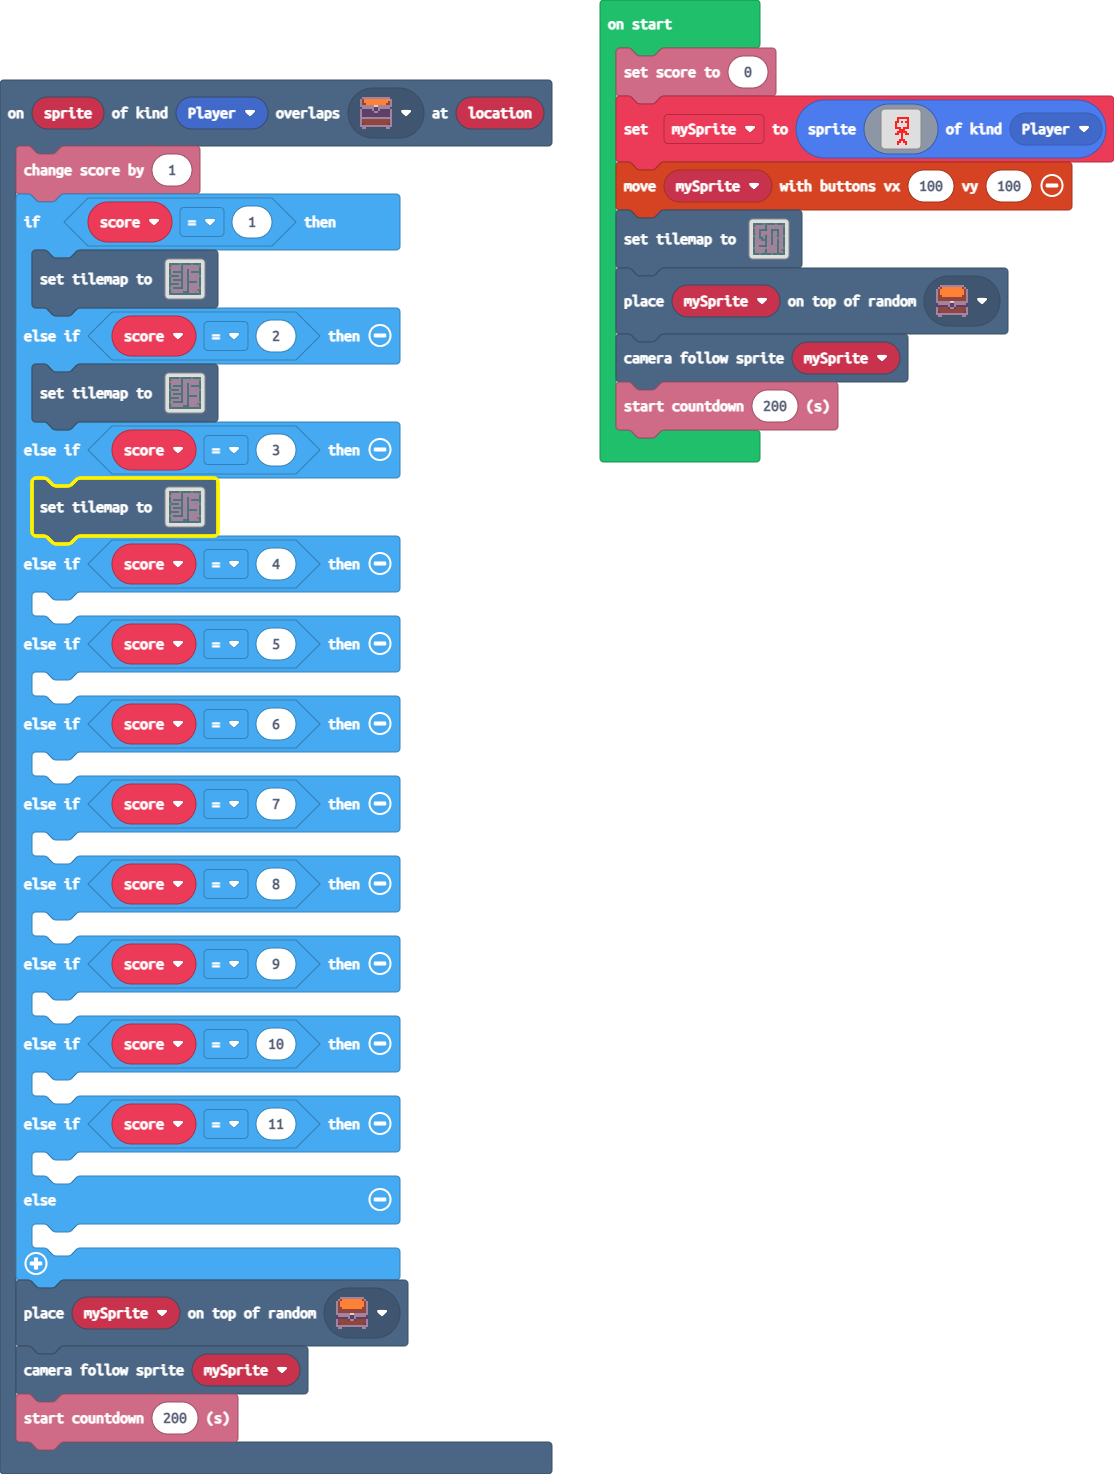
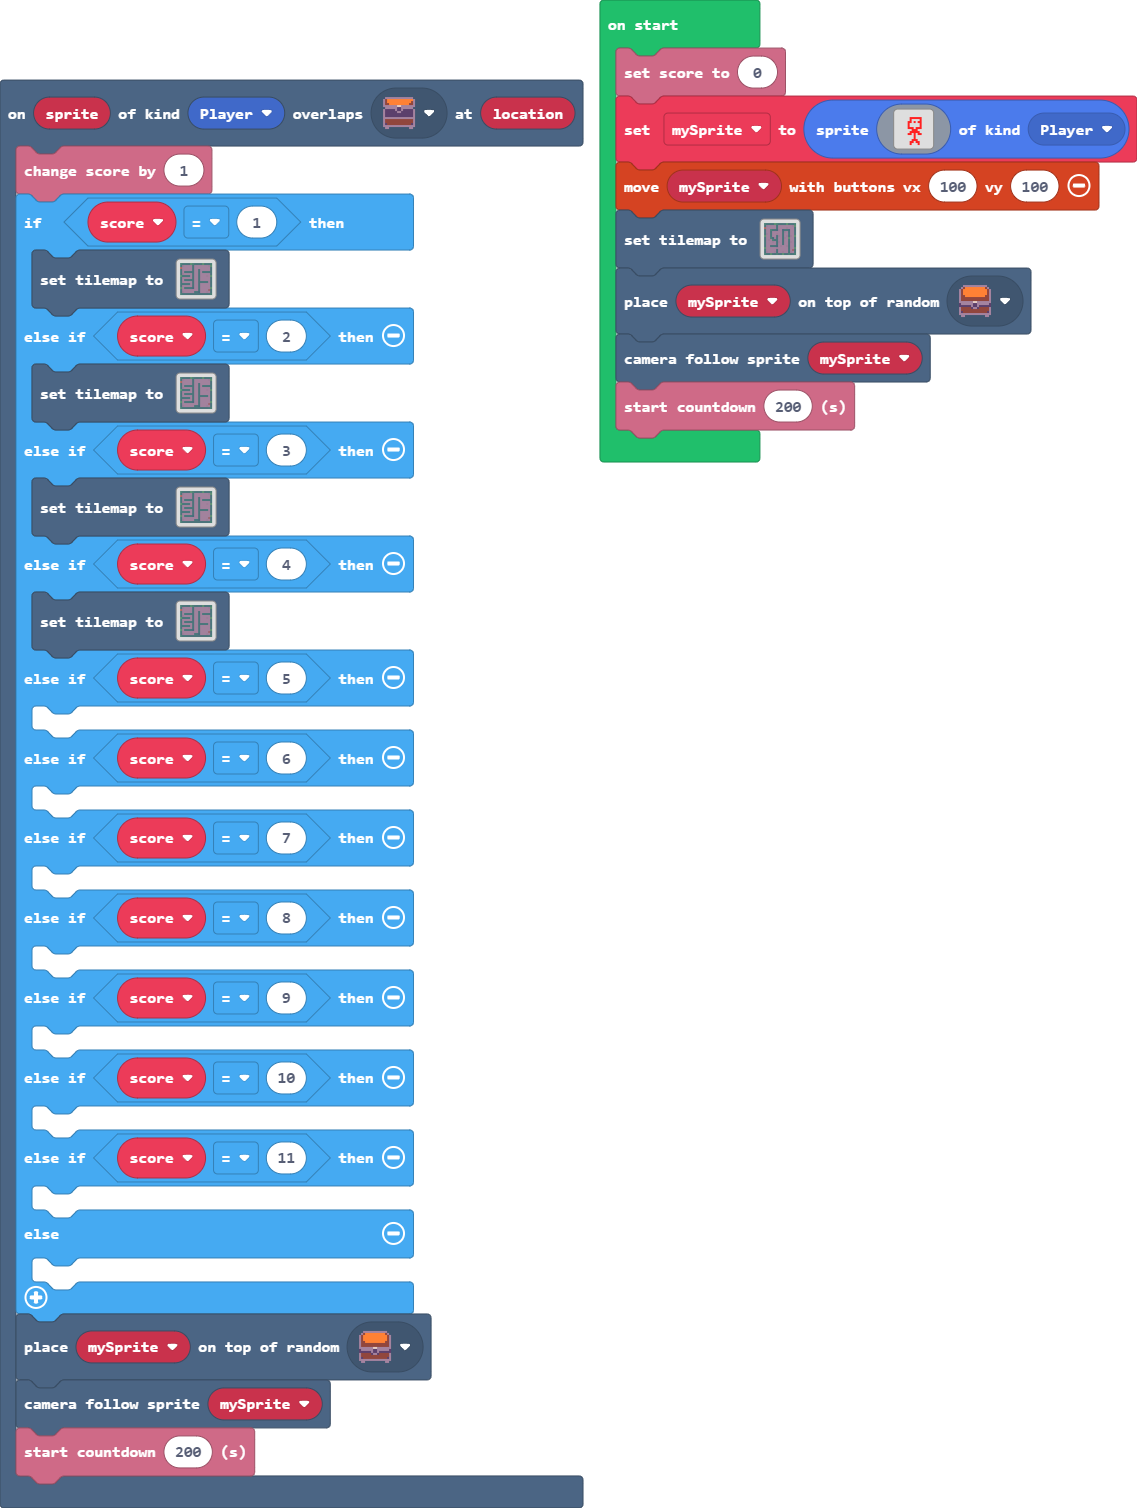
Update main.blocks, main.ts, tilemap.g.jres, tilemap.g.ts

Changed region(s): [[0.0, 0.0, 1.0, 0.9986], [0.4883, 0.9674, 0.5189, 1.0]]

diff --git a/tilemap.g.ts b/tilemap.g.ts
@@ -43,25 +43,6 @@ namespace myTiles {
 2 . . . . . 2 . . . . . 2 . . 2 
 2 2 2 2 2 2 2 2 2 2 2 2 2 2 2 2 
 `, [myTiles.transparency16,sprites.dungeon.greenOuterNorthWest,sprites.dungeon.greenOuterNorth0,sprites.dungeon.greenOuterNorthEast,sprites.dungeon.greenOuterEast0,sprites.dungeon.greenOuterSouthWest,sprites.dungeon.greenOuterSouth0,sprites.dungeon.greenOuterSouth1,sprites.dungeon.greenOuterSouthEast,sprites.dungeon.greenOuterWest1,sprites.dungeon.greenOuterWest0,sprites.dungeon.floorDark2,sprites.dungeon.greenOuterNorth1,sprites.dungeon.greenOuterEast1,sprites.dungeon.floorDark5,sprites.dungeon.greenInnerNorthEast,sprites.dungeon.greenOuterWest2,sprites.dungeon.greenOuterEast2,sprites.dungeon.greenOuterNorth2,sprites.dungeon.greenOuterSouth2,sprites.dungeon.greenInnerNorthWest,sprites.dungeon.greenInnerSouthEast,myTiles.transparency16,sprites.dungeon.chestClosed,sprites.dungeon.chestOpen], TileScale.Sixteen);
-            case "level_4":
[1 lines of base64/hex data omitted]
-. . . . . . . . . . . . . . . . 
-. . . . . . . . . . . . . . . . 
-. . . . . . . . . . . . . . . . 
-. . . . . . . . . . . . . . . . 
-. . . . . . . . . . . . . . . . 
-. . . . . . . . . . . . . . . . 
-. . . . . . . . . . . . . . . . 
-. . . . . . . . . . . . . . . . 
-. . . . . . . . . . . . . . . . 
-. . . . . . . . . . . . . . . . 
-. . . . . . . . . . . . . . . . 
-. . . . . . . . . . . . . . . . 
-. . . . . . . . . . . . . . . . 
-. . . . . . . . . . . . . . . . 
-. . . . . . . . . . . . . . . . 
-. . . . . . . . . . . . . . . . 
-`, [myTiles.transparency16,sprites.dungeon.greenOuterNorthWest,sprites.dungeon.greenOuterNorth0,sprites.dungeon.greenOuterNorthEast,sprites.dungeon.greenOuterEast0,sprites.dungeon.greenOuterSouthWest,sprites.dungeon.greenOuterSouth0,sprites.dungeon.greenOuterSouth1,sprites.dungeon.greenOuterSouthEast,sprites.dungeon.greenOuterWest1,sprites.dungeon.greenOuterWest0,sprites.dungeon.floorDark2,sprites.dungeon.greenOuterNorth1,sprites.dungeon.greenOuterEast1,sprites.dungeon.floorDark5,sprites.dungeon.greenOuterWest2,sprites.dungeon.stairWest,sprites.dungeon.greenOuterEast2,sprites.dungeon.greenOuterNorth2,sprites.dungeon.stairLadder], TileScale.Sixteen);
             case "level_3":
[1 lines of base64/hex data omitted]
 . . . . . . . . . . . . . . . . 
@@ -102,6 +83,44 @@ namespace myTiles {
 `, [myTiles.transparency16], TileScale.Sixteen);
             case "level3":
             case "level3":return tiles.createTilemap(hex`1000100000000000000000000000000000000000000000000000000000000000000000000000000000000000000000000000000000000000000000000000000000000000000000000000000000000000000000000000000000000000000000000000000000000000000000000000000000000000000000000000000000000000000000000000000000000000000000000000000000000000000000000000000000000000000000000000000000000000000000000000000000000000000000000000000000000000000000000000000000000000000000000000000000000000000000000000000000000000000000000000000000000000000000000000000000000000`, img`
+. . . . . . . . . . . . . . . . 
+. . . . . . . . . . . . . . . . 
+. . . . . . . . . . . . . . . . 
+. . . . . . . . . . . . . . . . 
+. . . . . . . . . . . . . . . . 
+. . . . . . . . . . . . . . . . 
+. . . . . . . . . . . . . . . . 
+. . . . . . . . . . . . . . . . 
+. . . . . . . . . . . . . . . . 
+. . . . . . . . . . . . . . . . 
+. . . . . . . . . . . . . . . . 
+. . . . . . . . . . . . . . . . 
+. . . . . . . . . . . . . . . . 
+. . . . . . . . . . . . . . . . 
+. . . . . . . . . . . . . . . . 
+. . . . . . . . . . . . . . . . 
+`, [myTiles.transparency16], TileScale.Sixteen);
+            case "level_4":
[1 lines of base64/hex data omitted]
+. . . . . . . . . . . . . . . . 
+. . . . . . . . . . . . . . . . 
+. . . . . . . . . . . . . . . . 
+. . . . . . . . . . . . . . . . 
+. . . . . . . . . . . . . . . . 
+. . . . . . . . . . . . . . . . 
+. . . . . . . . . . . . . . . . 
+. . . . . . . . . . . . . . . . 
+. . . . . . . . . . . . . . . . 
+. . . . . . . . . . . . . . . . 
+. . . . . . . . . . . . . . . . 
+. . . . . . . . . . . . . . . . 
+. . . . . . . . . . . . . . . . 
+. . . . . . . . . . . . . . . . 
+. . . . . . . . . . . . . . . . 
+. . . . . . . . . . . . . . . . 
+`, [myTiles.transparency16,sprites.dungeon.greenOuterNorthWest,sprites.dungeon.greenOuterNorth0,sprites.dungeon.greenOuterNorthEast,sprites.dungeon.greenOuterEast0,sprites.dungeon.greenOuterSouthWest,sprites.dungeon.greenOuterSouth0,sprites.dungeon.greenOuterSouth1,sprites.dungeon.greenOuterSouthEast,sprites.dungeon.greenOuterWest1,sprites.dungeon.greenOuterWest0,sprites.dungeon.floorDark2,sprites.dungeon.greenOuterNorth1,sprites.dungeon.greenOuterEast1,sprites.dungeon.floorDark5,sprites.dungeon.greenOuterWest2,sprites.dungeon.stairWest,sprites.dungeon.greenOuterEast2,sprites.dungeon.greenOuterNorth2,sprites.dungeon.stairLadder], TileScale.Sixteen);
+            case "level4":
+            case "level4":return tiles.createTilemap(hex`1000100000000000000000000000000000000000000000000000000000000000000000000000000000000000000000000000000000000000000000000000000000000000000000000000000000000000000000000000000000000000000000000000000000000000000000000000000000000000000000000000000000000000000000000000000000000000000000000000000000000000000000000000000000000000000000000000000000000000000000000000000000000000000000000000000000000000000000000000000000000000000000000000000000000000000000000000000000000000000000000000000000000000000000000000000000000000`, img`
 . . . . . . . . . . . . . . . . 
 . . . . . . . . . . . . . . . . 
 . . . . . . . . . . . . . . . . 

diff --git a/main.ts b/main.ts
@@ -8,7 +8,7 @@ scene.onOverlapTile(SpriteKind.Player, sprites.dungeon.chestOpen, function (spri
     } else if (score == 3) {
         tiles.setTilemap(tilemap`level_3`)
     } else if (score == 4) {
-    	
+        tiles.setTilemap(tilemap`level_3`)
     } else if (score == 5) {
     	
     } else if (score == 6) {
